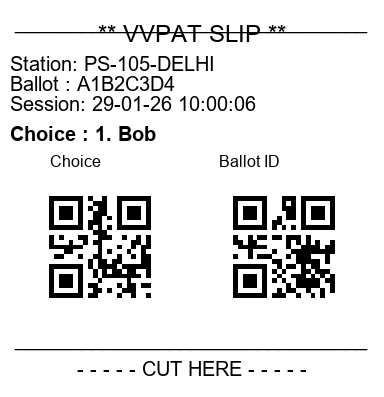
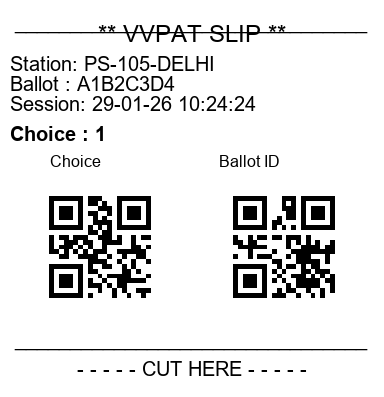
Implement Ballot Management System with full candidate shuffling

Changed region(s): [[0.125, 0.4836, 0.4062, 0.7557], [0.5312, 0.2418, 0.6875, 0.3023], [0.2812, 0.3023, 0.4062, 0.3627]]

diff --git a/ballot_manager.py b/ballot_manager.py
@@ -1,0 +1,132 @@
+import json
+import os
+import random
+import uuid
+import shutil
+
+import copy
+
+class BallotManager:
+    def __init__(self, tracking_file="ballots.json", template_file="candidates.json", ballots_dir="ballots"):
+        self.tracking_file = tracking_file
+        self.template_file = template_file
+        self.ballots_dir = ballots_dir
+        self.ballots = {}
+        
+        if os.path.exists(tracking_file):
+            self.load_ballots()
+
+    def generate_ballots(self, n=50):
+        """Generates N unique ballot IDs and creates individual JSON files."""
+        current_ids = set()
+        
+        # Load Template
+        if not os.path.exists(self.template_file):
+             raise FileNotFoundError(f"Template {self.template_file} not found!")
+        
+        with open(self.template_file, 'r') as f:
+            template_data = json.load(f)
+
+        # Create Directory
+        if not os.path.exists(self.ballots_dir):
+            os.makedirs(self.ballots_dir)
+        
+        # Generate IDs
+        while len(current_ids) < n:
+            new_id = uuid.uuid4().hex[:8].upper()
+            try:
+                 # Check if this ID is physically already used if preserving (not doing complex sync for now)
+                 pass 
+            except: pass
+            current_ids.add(new_id)
+
+        # Create Files
+        for bid in current_ids:
+            ballot_data = copy.deepcopy(template_data)
+            ballot_data['ballot_id'] = bid
+            
+            # --- SHUFFLE LOGIC ---
+            # Shuffle ALL candidates, including NAFS.
+            
+            candidates_dict = ballot_data.get("candidates", {})
+            cand_list = []
+            if isinstance(candidates_dict, dict):
+                cand_list = list(candidates_dict.values())
+            else:
+                cand_list = candidates_dict # List format
+            
+            # Collect available Serial IDs from ALL candidates
+            available_ids = [c["serial_id"] for c in cand_list]
+            random.shuffle(available_ids)
+            
+            # Re-assign Serial IDs
+            for i, c in enumerate(cand_list):
+                c["serial_id"] = available_ids[i]
+                
+            # ---------------------
+            
+            filepath = os.path.join(self.ballots_dir, f"{bid}.json")
+            with open(filepath, 'w') as f:
+                json.dump(ballot_data, f, indent=4)
+            
+        # Update Tracking File
+        # We assume we are RESTARTING the pool. If appending, we'd need to load first.
+        self.ballots = {bid: "UNUSED" for bid in current_ids}
+        self.save_ballots()
+        print(f"Generated {n} ballot files in '{self.ballots_dir}/' and updated tracking.")
+
+    def load_ballots(self):
+        try:
+            with open(self.tracking_file, 'r') as f:
+                data = json.load(f)
+                self.ballots = data.get("ballots", {})
+        except Exception as e:
+            print(f"Error loading ballots: {e}")
+            self.ballots = {}
+
+    def save_ballots(self):
+        data = {
+            "total_count": len(self.ballots),
+            "ballots": self.ballots
+        }
+        temp_file = self.tracking_file + ".tmp"
+        with open(temp_file, 'w') as f:
+            json.dump(data, f, indent=4)
+        
+        if os.path.exists(self.tracking_file):
+            os.remove(self.tracking_file)
+        os.rename(temp_file, self.tracking_file)
+
+    def get_unused_ballot(self):
+        """Randomly selects an unused ballot ID."""
+        self.load_ballots()
+        
+        # FILTER: Only UNUSED
+        unused = [bid for bid, status in self.ballots.items() if status == "UNUSED"]
+        
+        if not unused:
+            raise Exception("No unused ballots remaining!")
+            
+        selected_id = random.choice(unused)
+        selected_file = os.path.abspath(os.path.join(self.ballots_dir, f"{selected_id}.json"))
+        
+        if not os.path.exists(selected_file):
+             # Consistency check
+             print(f"Warning: File for {selected_id} missing. Marking USED and skipping.")
+             self.mark_as_used(selected_id)
+             return self.get_unused_ballot() # Recursive try
+
+        return selected_id, selected_file
+
+    def mark_as_used(self, ballot_id):
+        if ballot_id not in self.ballots:
+             print(f"Warning: Ballot {ballot_id} not in tracking.")
+             return
+             
+        self.ballots[ballot_id] = "USED"
+        self.save_ballots()
+        print(f"Ballot {ballot_id} marked as USED.")
+
+if __name__ == "__main__":
+    bm = BallotManager()
+    bm.generate_ballots(10)

diff --git a/data_handler.py b/data_handler.py
@@ -3,15 +3,17 @@ import csv
 import os
 
 class DataHandler:
-    def __init__(self, candidates_file="candidates.json", log_file="votes.log"):
-        self.candidates_file = candidates_file
+    def __init__(self, candidates_file, log_file="votes.log"):
+        # candidates_file is now the specific ballot file path
+        self.candidates_file = candidates_file 
         self.log_file = log_file
         self.election_id = ""
         self.election_hash = ""
+        self.ballot_id = "" # Store the specific ballot ID
         self.candidates_base = []
 
     def load_candidates(self):
-        """Loads candidates from the JSON file and sorts them by serial_id."""
+        """Loads candidates from the specific ballot/candidate file."""
         self.candidates_base = []
         
         if not os.path.exists(self.candidates_file):
@@ -21,9 +23,9 @@ class DataHandler:
             with open(self.candidates_file, mode='r', encoding='utf-8') as f:
                 data = json.load(f)
                 
-                # Store election metadata
                 self.election_id = data.get("election_id", "")
                 self.election_hash = data.get("hash_string", "")
+                self.ballot_id = data.get("ballot_id", "UNKNOWN")
                 
                 candidates_data = data.get("candidates", [])
                 if isinstance(candidates_data, dict):
@@ -32,38 +34,34 @@ class DataHandler:
                     candidates_list = candidates_data
 
                 for cand in candidates_list:
-                    # Ensure properly typed dictionary
                     self.candidates_base.append({
                         "id": int(cand["serial_id"]),
                         "name": cand["candidate_name"],
                         "candidate_number": cand["candidate_number"],
-                        "party": cand.get("candidate_party", "") # Keep flexible
+                        "party": cand.get("candidate_party", "")
                     })
             
-            # SORT BY SERIAL_ID as requested
             self.candidates_base.sort(key=lambda x: x['id'])
-            
             return self.candidates_base
 
         except Exception as e:
-            raise Exception(f"Failed to load candidates: {e}")
+            raise Exception(f"Failed to load candidates from {self.candidates_file}: {e}")
 
     def get_candidate_by_id(self, cid):
         return next((c for c in self.candidates_base if c['id'] == cid), None)
 
     def save_vote(self, vote_data, voting_mode):
-        """
-        Appends the vote to the log file.
-        vote_data is a dictionary: {rank: candidate_id}
-        """
         try:
-            timestamp = vote_data.get('timestamp') # Expecting timestamp to be passed or generated here? 
-            # Ideally generated here if not passed, but let's assume passed for consistency or generate new.
+            timestamp = vote_data.get('timestamp')
             import datetime
             if not timestamp:
                 timestamp = datetime.datetime.now().isoformat()
             
             selections = vote_data.get('selections', {})
+            
+            # Include Ballot ID in log if desired, though not strictly in CSV format previously. 
+            # Keeping CSV format same for compatibility, but we might want to log it.
+            # writer.writerow([timestamp, voting_mode, rank, cid, cand['name'], self.ballot_id]) # Future enhancement
             
             with open(self.log_file, "a", newline='', encoding='utf-8') as f:
                 writer = csv.writer(f)

diff --git a/main.py b/main.py
@@ -1,15 +1,41 @@
 import tkinter as tk
+from tkinter import messagebox
 from data_handler import DataHandler
 from printer_service import PrinterService
 from gui_app import VotingApp
+from ballot_manager import BallotManager
+import os
 
 def main():
     root = tk.Tk()
     
-    # Initialize Core Services
+    # Ballot Management
+    bm = BallotManager()
+    
+    # Auto-generate if missing (Dev convenience)
+    if not os.path.exists("ballots") or not os.listdir("ballots"):
+        print("No ballots found. Generating new pool...")
+        bm.generate_ballots(50)
+
     try:
-        data_handler = DataHandler()
-        # printer_service = PrinterService(data_handler) # Dependency injection if needed, but PrinterService needs data for receipts
+        # Get ONE unused ballot for this session
+        ballot_id, ballot_file = bm.get_unused_ballot()
+        print(f"Session initialized with Ballot ID: {ballot_id}")
+        
+        # Mark as used IMMEDIATELY to prevent reuse if app crashes?
+        # Or mark after vote? 
+        # Standard: Mark when issued.
+        bm.mark_as_used(ballot_id)
+        
+    except Exception as e:
+        print(f"Ballot Error: {e}")
+        root.withdraw()
+        messagebox.showerror("Fatal Error", f"Cannot initialize ballot: {e}")
+        return
+
+    # Initialize Core Services with SPECIFIC Ballot File
+    try:
+        data_handler = DataHandler(ballot_file) 
         printer_service = PrinterService(data_handler)
     except Exception as e:
         print(f"Critical Startup Error: {e}")

diff --git a/verify_ballots.py b/verify_ballots.py
@@ -1,0 +1,35 @@
+from ballot_manager import BallotManager
+import time
+
+def verify_system():
+    bm = BallotManager()
+    
+    print("\n--- Step 1: Requesting a Random Ballot ---")
+    try:
+        ballot_id = bm.get_unused_ballot()
+        print(f"Received Ballot ID: {ballot_id}")
+    except Exception as e:
+        print(f"Error: {e}")
+        return
+
+    print(f"\n--- Step 2: Verifying Status in File ---")
+    # Peek into internal state or file
+    bm.load_ballots()
+    status = bm.ballots.get(ballot_id)
+    print(f"Status of {ballot_id} is: {status} (Expected: UNUSED)")
+
+    print(f"\n--- Step 3: Marking as USED ---")
+    bm.mark_as_used(ballot_id)
+    
+    print(f"\n--- Step 4: Verifying Status Update ---")
+    bm.load_ballots()
+    new_status = bm.ballots.get(ballot_id)
+    print(f"Status of {ballot_id} is: {new_status} (Expected: USED)")
+    
+    if new_status == "USED":
+        print("\n[SUCCESS] Ballot tracking is working.")
+    else:
+        print("\n[FAILURE] Status did not update.")
+
+if __name__ == "__main__":
+    verify_system()

diff --git a/gui_app.py b/gui_app.py
@@ -91,6 +91,7 @@ class VotingApp:
         
         mode_text = "Single Choice Vote" if self.voting_mode == 'normal' else f"Select Preference #{self.current_rank}"
         tk.Label(header, text="General Election 2026", font=('Helvetica', 12), bg=header_bg).pack()
+        tk.Label(header, text=f"Ballot ID: {self.data_handler.ballot_id}", font=('Helvetica', 10, 'bold'), bg=header_bg, fg="#555").pack()
         tk.Label(header, text=mode_text, font=('Helvetica', 20, 'bold'), bg=header_bg, fg="#333").pack(pady=2)
         
         # Content

diff --git a/printer_service.py b/printer_service.py
@@ -46,7 +46,7 @@ class PrinterService:
             raise Exception("Printer not connected")
 
         # Mock Data Setup
-        ballot_id = uuid.uuid4().hex[:8].upper()
+        ballot_id = self.data_handler.ballot_id
         station_id = "PS-105-DELHI"
         timestamp = datetime.datetime.now().strftime("%d-%m-%y %H:%M:%S")
 

diff --git a/generate_ballots.py b/generate_ballots.py
@@ -1,0 +1,12 @@
+from ballot_manager import BallotManager
+
+def main():
+    print("Initializing Ballot Generation...")
+    bm = BallotManager()
+    
+    # Generate 100 sample ballots
+    bm.generate_ballots(100)
+    print("Done. Check ballots.json")
+
+if __name__ == "__main__":
+    main()
